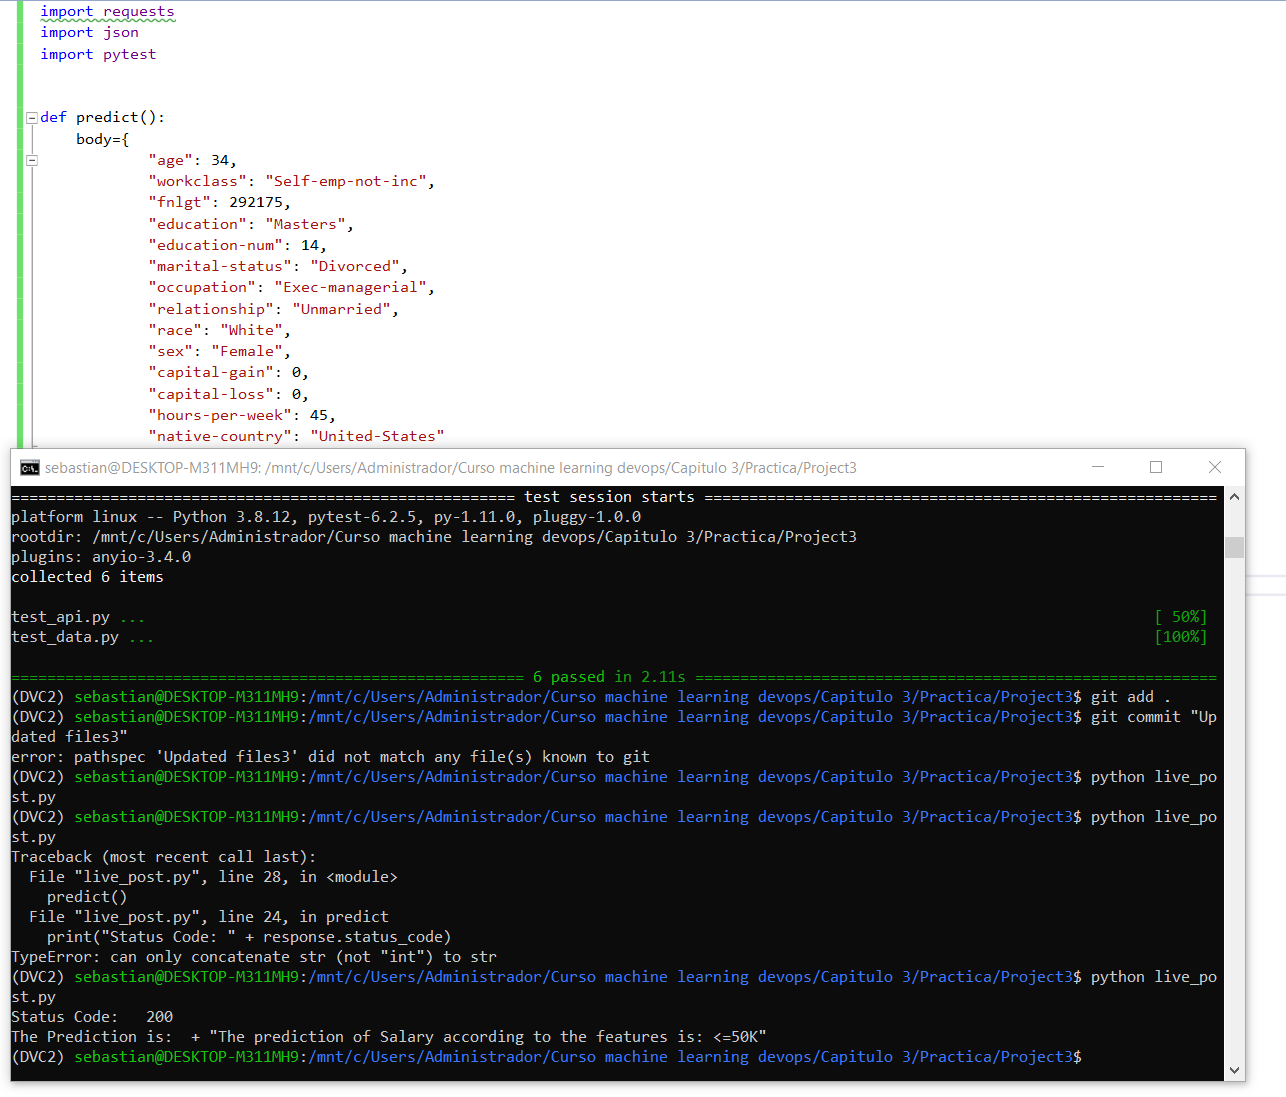
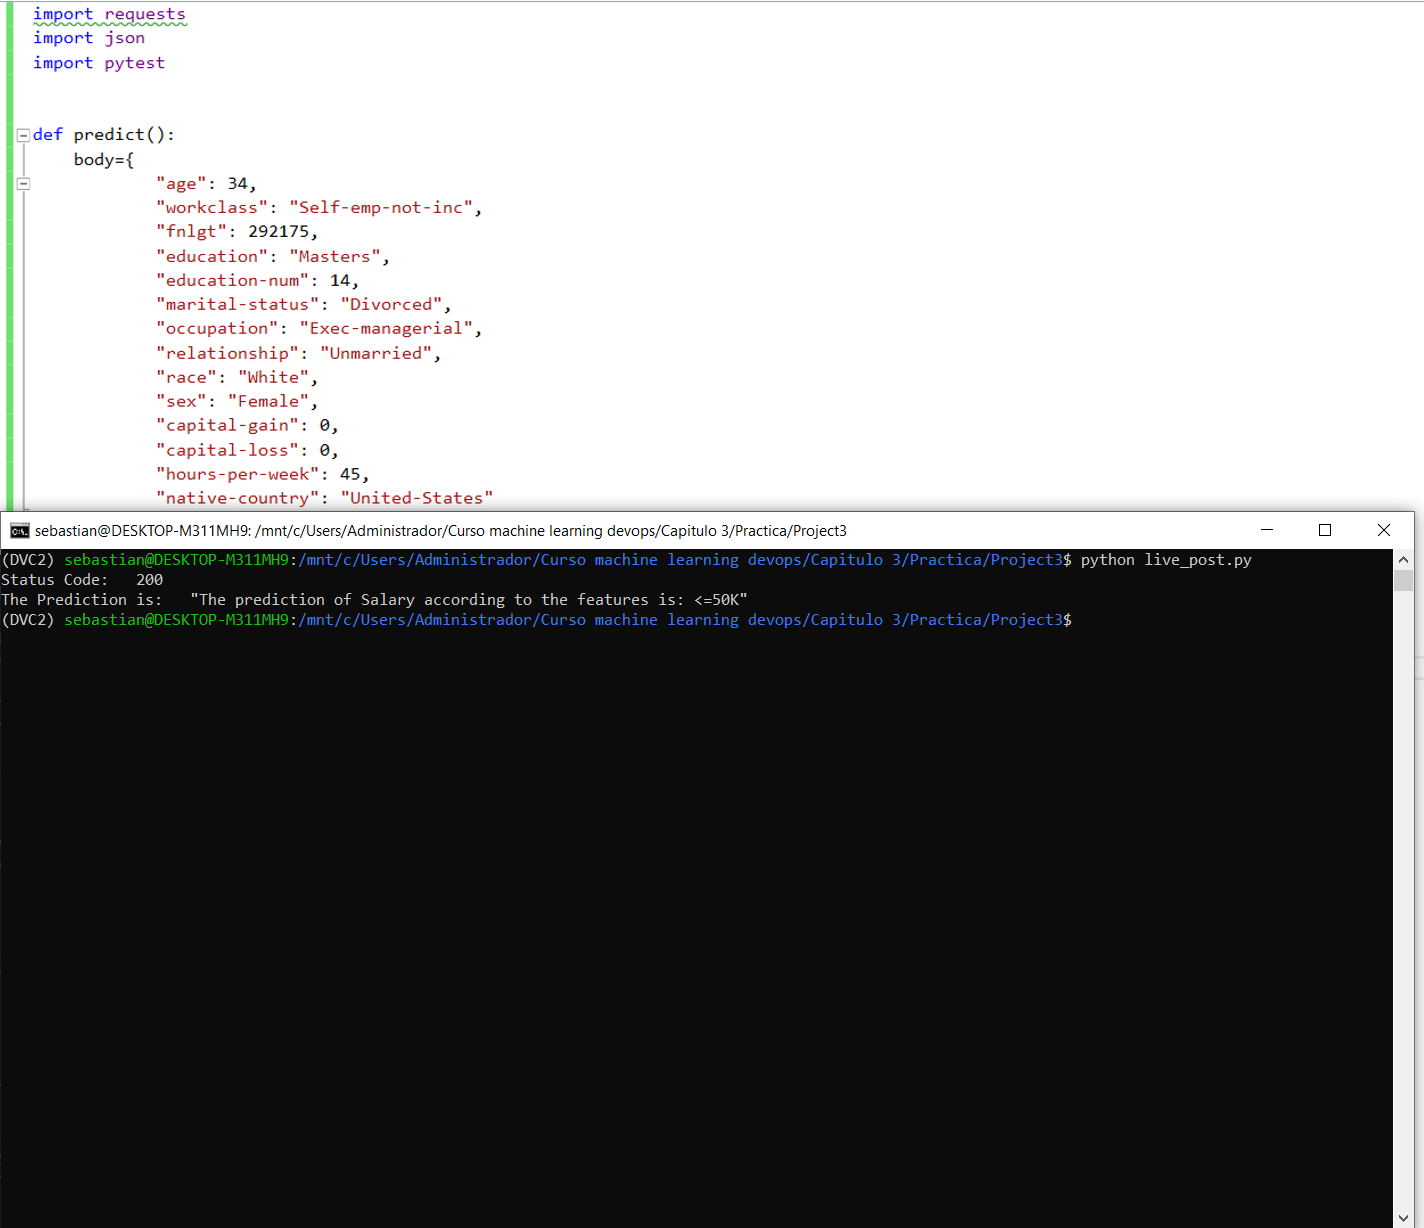
Add files via upload

diff --git a/Train_model.py b/Train_model.py
@@ -14,60 +14,49 @@ import pandas as pd
 import pickle
 
 
-# In[14]:
-
 
 # Add code to load in the data.
-census_data=pd.read_csv("./amazondrive/Census_cleaned.csv")
+def train_model():
+    census_data=pd.read_csv("./amazondrive/Census_cleaned.csv")
+
+    # Optional enhancement, use K-fold cross validation instead of a train-test split.
+    #train, test = train_test_split(data, test_size=0.20)
+
+    cat_features = [
+        "workclass",
+        "education",
+        "marital-status",
+        "occupation",
+        "relationship",
+        "race",
+        "sex",
+        "native-country",
+    ]
+
+    kf10 = KFold(n_splits=10, shuffle=False)
+    label="salary"
+    X, y, encoder, lb= process_data(census_data,cat_features,label,training=True)
+
+    for train_index, test_index in kf10.split(census_data):
+        X_train,X_test = X[train_index], X[test_index]
+        y_train,y_test = y[train_index], y[test_index]
+        model=train_model(X_train,y_train)
+        prediction=model.predict(X_test)
+        precision, recall, fbeta=compute_model_metrics(y_test, prediction)
+        print("Precision: ",precision,", Recall: ", recall, ", fbeta: ", fbeta)
 
 
-# In[15]:
+    #Train model using all the data 
+    X_train,X_test,y_train,y_test=train_test_split(X,y,test_size=0.2,random_state=0)
 
+    model=train_model(X_train, y_train)
 
-# Optional enhancement, use K-fold cross validation instead of a train-test split.
-#train, test = train_test_split(data, test_size=0.20)
-
-cat_features = [
-    "workclass",
-    "education",
-    "marital-status",
-    "occupation",
-    "relationship",
-    "race",
-    "sex",
-    "native-country",
-]
-
-
-# In[16]:
-
-
-kf10 = KFold(n_splits=10, shuffle=False)
-label="salary"
-X, y, encoder, lb= process_data(census_data,cat_features,label,training=True)
-
-
-# In[17]:
-
-
-for train_index, test_index in kf10.split(census_data):
-    X_train,X_test = X[train_index], X[test_index]
-    y_train,y_test = y[train_index], y[test_index]
-    model=train_model(X_train,y_train)
     prediction=model.predict(X_test)
     precision, recall, fbeta=compute_model_metrics(y_test, prediction)
-    print("Precision: ",precision,", Recall: ", recall, ", fbeta: ", fbeta)
+    pickle.dump(lb, open('ml/LabelBinarizer.sav', 'wb'))
+    pickle.dump(encoder, open('ml/OneHotEncoder.sav', 'wb'))
+    pickle.dump(model, open('ml/finalized_model.sav', 'wb'))
 
-
-# In[21]:
-
-
-pickle.dump(lb, open('ml/LabelBinarizer.sav', 'wb'))
-pickle.dump(encoder, open('ml/OneHotEncoder.sav', 'wb'))
-pickle.dump(model, open('ml/finalized_model.sav', 'wb'))
-
-
-# In[24]:
 
 
 #Function for calculating descriptive stats on slices of the dataset
@@ -94,14 +83,11 @@ def slice_data(df, cat_features, encoder, lb, model):
                 f.write(" -Fbeta: " + str(fbeta)+"\n")
 
 
-# In[25]:
-
-
 slice_data(census_data,cat_features,encoder,lb,model)
 
 
-# In[ ]:
-
+if '__main__' == __name__:
+    train_model()
 
 
 

diff --git a/live_post.py b/live_post.py
@@ -22,7 +22,7 @@ def predict():
         }
     response=requests.post(url="https://projectjs3.herokuapp.com/predict", json=body)
     print(f"Status Code:   {response.status_code}")
-    print (f"The Prediction is:  + {response.text}")
+    print (f"The Prediction is:   {response.text}")
 
 if __name__ == "__main__":
     predict()
